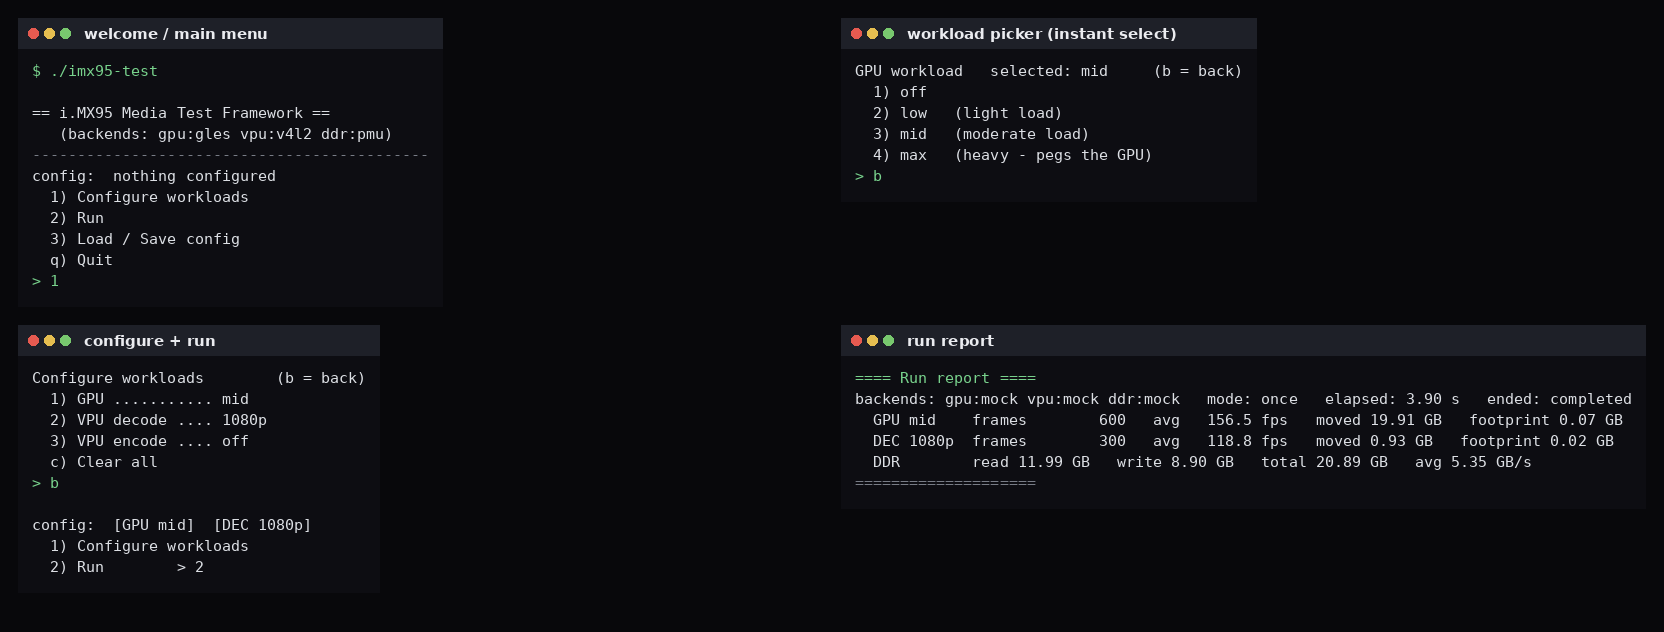
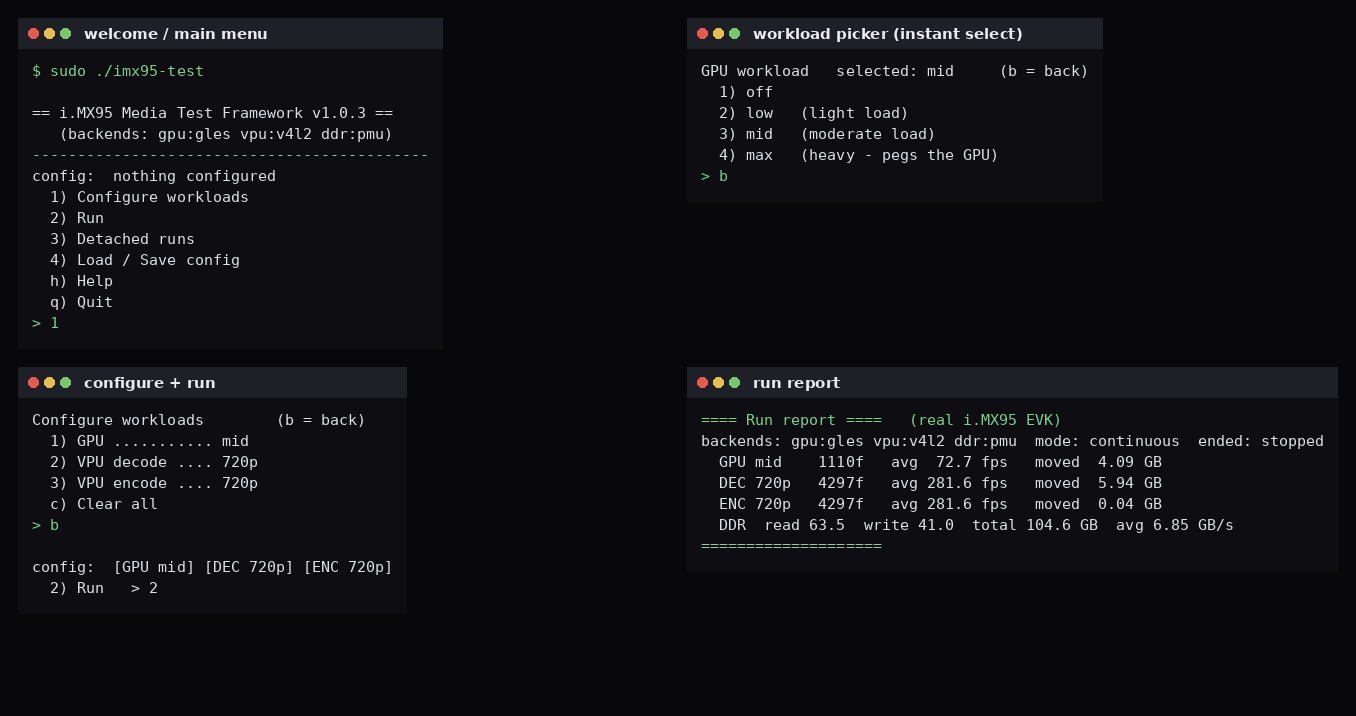
v1.0.3: built-in paginated help; refreshed README screenshots
Adds a main-menu "h) Help" option: a succinct operating guide across 3 pages
that pauses between pages ("-- Enter for more, q to stop --") instead of
scrolling off. Covers what it does, the menus, run modes + live-run controls,
detached runs, what the numbers mean, and the env tuning knobs.

Refreshes README screenshots to match the current UI (menu now shows Detached
runs + Help) and adds help + detached-management shots, with a short usage
section. Run-report screenshot uses real i.MX95 EVK numbers.

diff --git a/src/menu.cpp b/src/menu.cpp
@@ -256,6 +256,73 @@ void loadsave_menu(Config& cfg) {
 
 } // namespace
 
+// Succinct operating guide, paginated so it never scrolls off in one blast.
+void show_help() {
+    static const char* p1 = R"(i.MX95 Media Test Framework - quick help   (1/3)
+
+WHAT IT DOES
+  Apply heavy GPU / VPU workloads (alone or together) and measure how they
+  affect each other - chiefly via global DDR memory bandwidth.
+
+MAIN MENU
+  1) Configure   choose which blocks to run, and how hard
+  2) Run         start the selected workloads
+  3) Detached    view / stop runs launched in the background
+  4) Load/Save   store or reload your configuration
+  h) Help (this screen)     q) Quit
+
+CONFIGURE
+  GPU:  off / low / mid / max.
+  VPU decode and encode are independent (run both) and each is one
+  resolution: 720p / 1080p / 4k. A choice applies immediately; 'b' = back.)";
+
+    static const char* p2 = R"(i.MX95 Media Test Framework - quick help   (2/3)
+
+RUN MODES  (menu 2)
+  1) Continuous   runs until you stop it
+  2) Once         each workload does one full pass
+  3) Fixed count  a set number of loops
+  4) Detached     runs in the background, logs to a file (menu stays free)
+
+DURING A LIVE RUN
+  space    open a menu: resume / stop & report / quit
+  Ctrl-C   stop gracefully
+  Either way you get a per-workload + DDR report when it ends.
+
+DETACHED RUNS
+  Start:  Run -> 4, pick a mode, press Enter for the default log name.
+          You return to the menu and can launch more runs alongside it.
+  Stop:   main menu -> Detached runs -> a number (or 'a' for all),
+          or from a shell: kill <pid> (printed when it starts).
+  Watch:  tail -f <logfile>.   Each run writes a final report to its log.)";
+
+    static const char* p3 = R"(i.MX95 Media Test Framework - quick help   (3/3)
+
+WHAT THE NUMBERS MEAN
+  Per workload : frames, average fps, bytes moved, buffer footprint.
+  DDR          : global SoC read/write bandwidth - the cross-block
+                 interference signal. Compare a block alone vs. with others.
+
+TUNING  (environment variables, set before launching the program)
+  GPU load : IMX95_GPU_W _H _SUBDIV _INSTANCES _LIGHTS _EXTRA _PASSES
+  VPU      : IMX95_VPU_CODEC=h264|hevc   IMX95_VPU_STREAM=<file.h264>
+  DDR      : IMX95_DDR_BEAT_BYTES=32 (confirm against the reference manual)
+  GPU disp : IMX95_EGL_PLATFORM=gbm|default   IMX95_DRM_DEVICE=/dev/dri/cardN
+
+  Run as root so the DDR PMU and codec/GPU device nodes are accessible.)";
+
+    const char* pages[] = {p1, p2, p3};
+    for (int i = 0; i < 3; ++i) {
+        rule();
+        std::puts(pages[i]);
+        if (i < 2) {
+            if (read_line("\n-- Enter for more, q to stop -- ") == "q") return;
+        } else {
+            read_line("\n-- end of help, press Enter -- ");
+        }
+    }
+}
+
 void run_app() {
     install_signal_handlers();
     Config cfg;
@@ -272,12 +339,14 @@ void run_app() {
         std::puts("  2) Run");
         std::printf("  3) Detached runs%s\n", active ? (" (" + std::to_string(active) + " active)").c_str() : "");
         std::puts("  4) Load / Save config");
+        std::puts("  h) Help");
         std::puts("  q) Quit");
         std::string c = read_line("> ");
         if (c == "1") configure_menu(cfg);
         else if (c == "2") { if (run_menu(cfg)) break; }
         else if (c == "3") detached_runs_menu();
         else if (c == "4") loadsave_menu(cfg);
+        else if (c == "h" || c == "?") show_help();
         else if (c == "q") break;
     }
     std::puts("\nBye.");

diff --git a/README.md b/README.md
@@ -60,6 +60,17 @@ Then drive the menu (it mirrors the screenshots above):
    quit), or **Ctrl-C** to stop gracefully. Either way you get a per-workload +
    DDR **run report**.
 
+Press **`h`** at the main menu any time for a built-in, paginated quick-help
+screen (it pauses between pages rather than scrolling off):
+
+![built-in help](docs/images/help.png)
+
+**Detached runs** let the harness run in the background while the terminal stays
+free — start one with **Run → 4**, then list and stop them from **main menu →
+Detached runs** (by number, or `a` for all; no shell needed):
+
+![managing detached runs](docs/images/detached.png)
+
 On real hardware the experience is identical — you just build with the real
 backends (see **Running on an i.MX95** below).
 